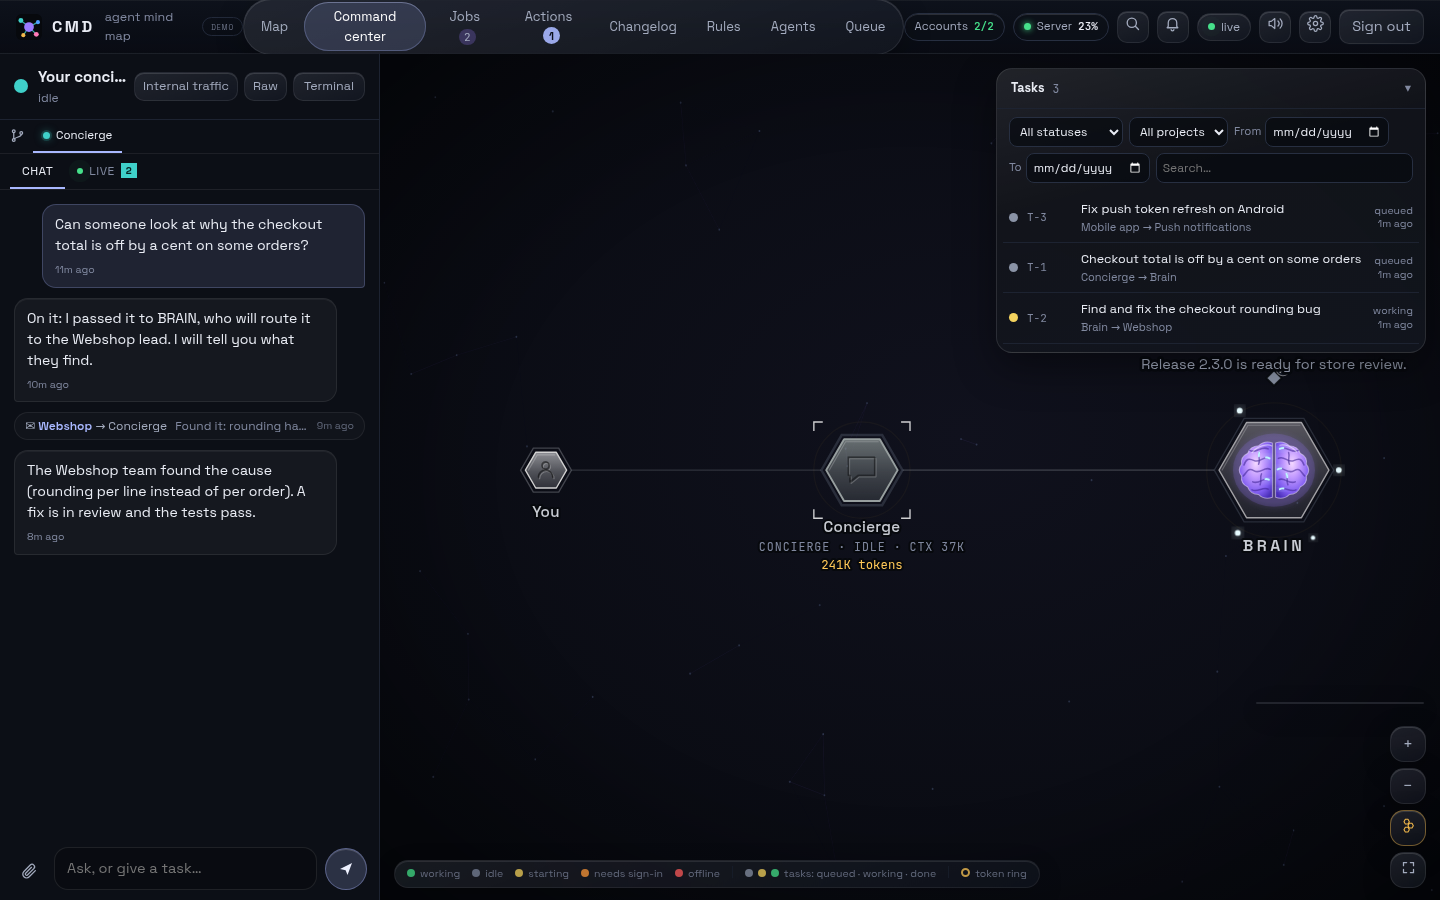
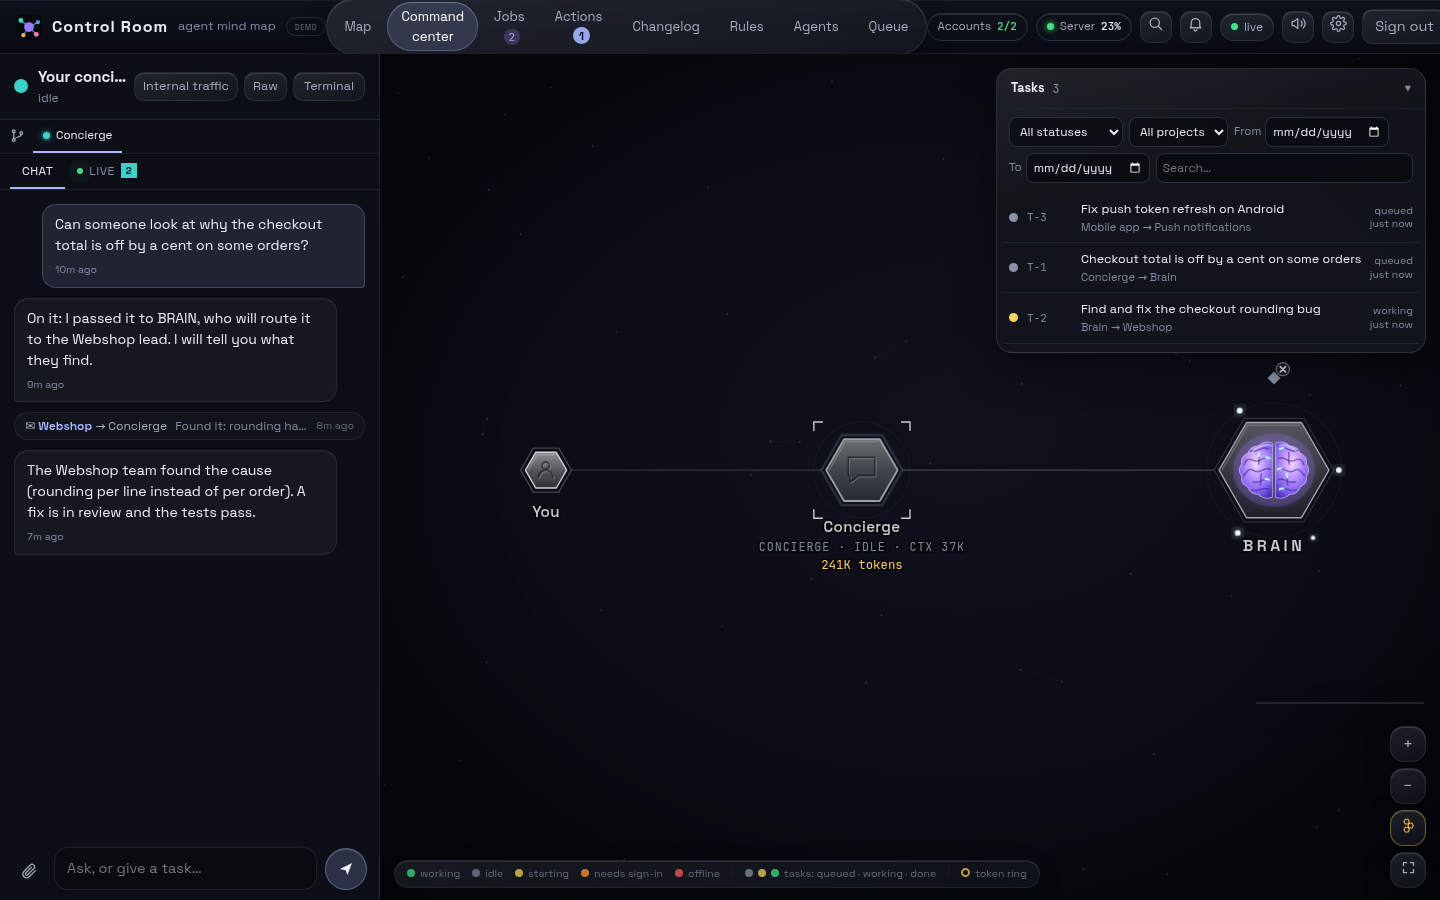
Screenshots for Control Room; keep the brand on one line in the header
Shots come from demo mode and the wizard test fixture at neutral /tmp paths.

diff --git a/public/app.css b/public/app.css
@@ -11,8 +11,8 @@ button{font:inherit;color:inherit}
 .top{height:54px;display:flex;align-items:center;justify-content:space-between;padding:0 16px;border-bottom:1px solid var(--line);background:linear-gradient(180deg,#0b0e15,#07090d)}
 .brand{display:flex;align-items:center;gap:10px}
 .brand img{width:26px;height:26px}
-.brand b{letter-spacing:.16em;font-size:16px}
-.brand .sub{color:var(--ink3);font-size:12.5px}
+.brand b{letter-spacing:.06em;font-size:16px;white-space:nowrap}
+.brand .sub{color:var(--ink3);font-size:12.5px;white-space:nowrap}
 .pills{display:flex;align-items:center;gap:8px}
 .pill{font-size:12px;padding:4px 10px;border-radius:999px;border:1px solid var(--line2);color:var(--ink2);white-space:nowrap}
 .pill.live i{display:inline-block;width:7px;height:7px;border-radius:50%;background:var(--idle);margin-right:6px;vertical-align:1px}
